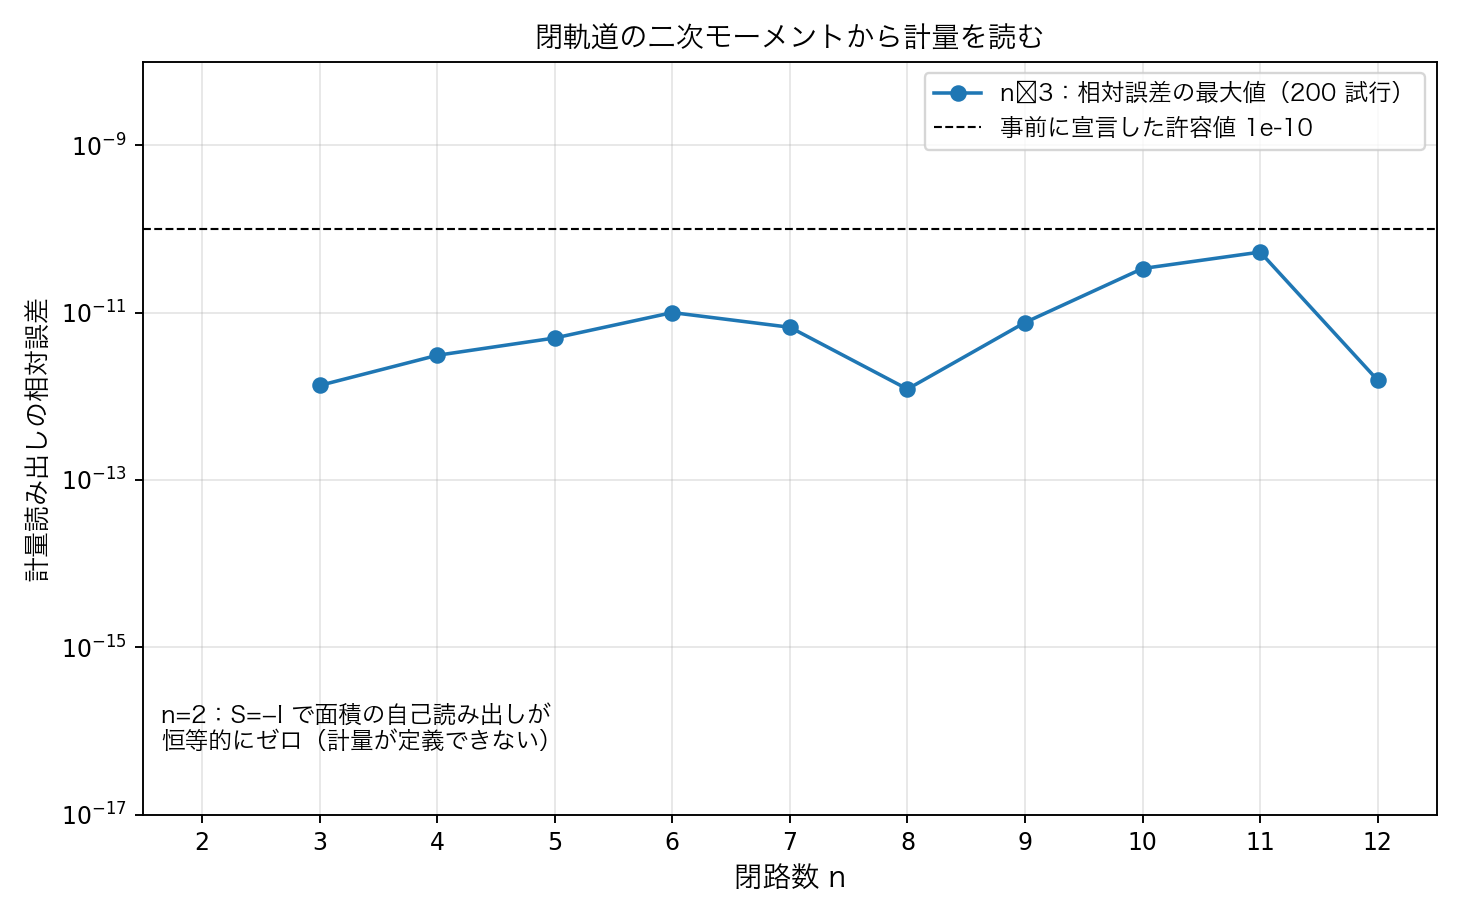
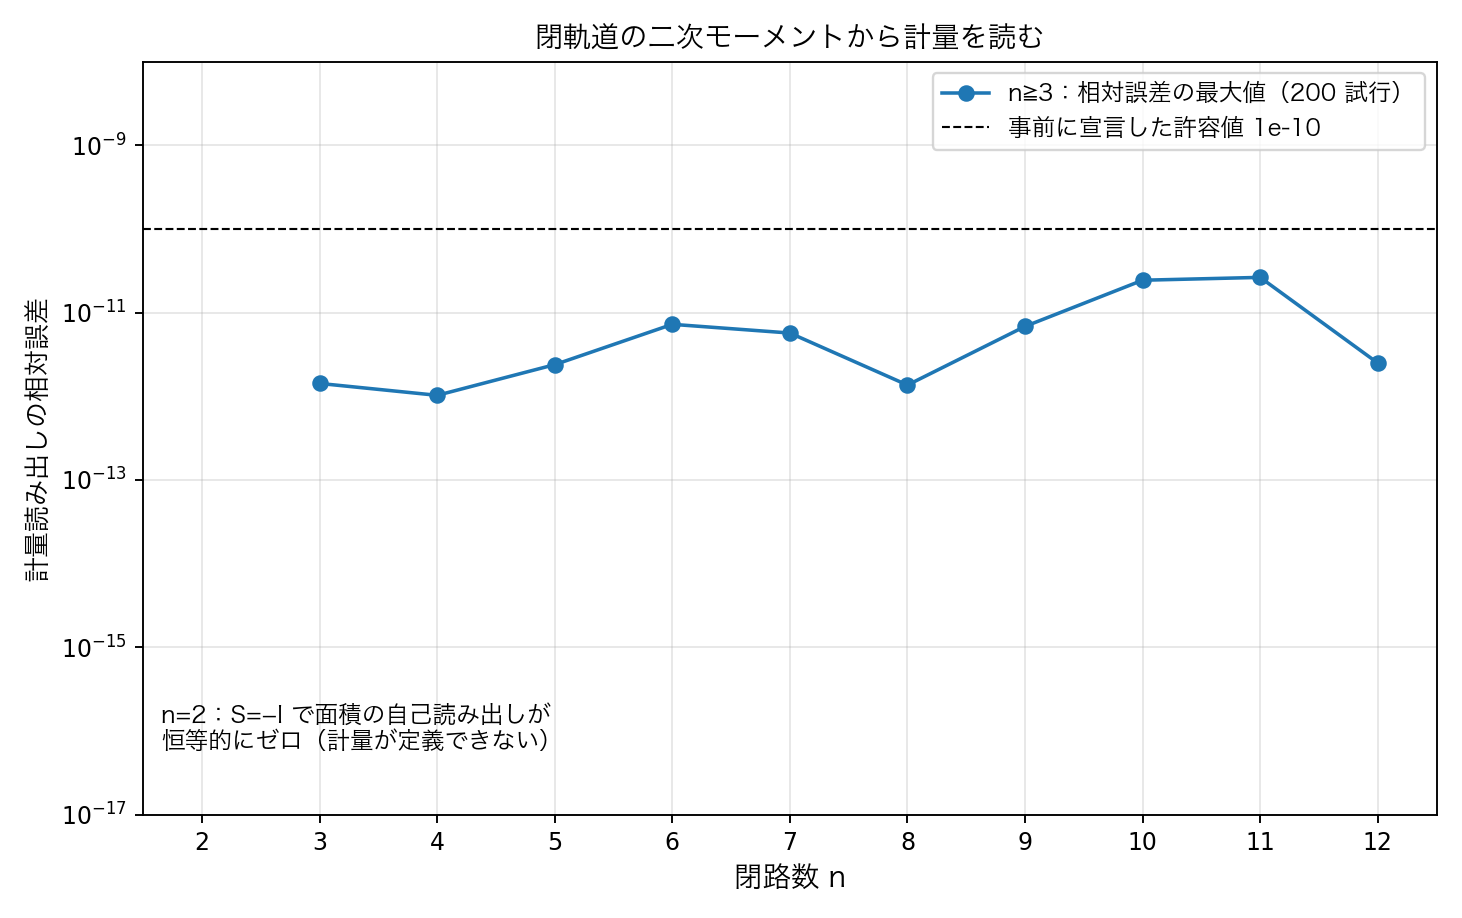
第一思考実験（area_readout版）fable5.1指示 [18]〜[22] 適用：T6の条件を非退化型（|τ|≠2）に統一、§7へ別環境再実行の記録を追加（macOS arm64/Python 3.9.6/NumPy 2.0.2/Accelerate、判定17項目一致・厳密/整数値完全一致・浮動小数は末尾桁のみ相違）、凡例の≥(U+2265)をJIS内の≧(U+2267)へ変更（スクリプト2箇所）、図3のSVG/PNGをフォルダ内JSON正本から再描画（SVG差分は凡例1行のみ・全図グリフ欠けゼロ点検済み・豆腐解消を目視確認）

diff --git a/次元の生成構造/基礎物理モデル研究プロジェクト設計_20260920/run_area_readout_experiments_v1.py b/次元の生成構造/基礎物理モデル研究プロジェクト設計_20260920/run_area_readout_experiments_v1.py
@@ -678,7 +678,7 @@ def svg_fig3(res5):
     a.line([1.5, 12.5], [1e-10, 1e-10], "#000", 1, "5 4")
     a.line(ns, mx, COLORS[0], 1.6)
     a.dots(ns, mx, COLORS[0], 3.5)
-    a.legend([("n≥3：相対誤差の最大値（200 試行）", COLORS[0], None), ("事前に宣言した許容値 1e-10", "#000", "5 4")], 500, 60, box_w=250)
+    a.legend([("n≧3：相対誤差の最大値（200 試行）", COLORS[0], None), ("事前に宣言した許容値 1e-10", "#000", "5 4")], 500, 60, box_w=250)
     s.text(a.X(1.7), a.Y(3e-16), "n=2：S=−I で面積の自己読み出しが", 11)
     s.text(a.X(1.7), a.Y(3e-16) + 15, "恒等的にゼロ（計量が定義できない）", 11)
     s.save(FIG_DIR / (FIG3 + ".svg"))
@@ -778,7 +778,7 @@ def make_fig3(res5):
     ns = sorted(int(k) for k in res5["per_n"].keys())
     mx = [res5["per_n"][n]["max_rel_err"] for n in ns]
     fig, ax = plt.subplots(figsize=(8.6, 5.4), dpi=170)
-    ax.semilogy(ns, mx, "o-", label=L("n≥3：相対誤差の最大値（200 試行）", "n>=3: max relative error (200 trials)"))
+    ax.semilogy(ns, mx, "o-", label=L("n≧3：相対誤差の最大値（200 試行）", "n>=3: max relative error (200 trials)"))
     ax.axhline(1e-10, color="k", ls="--", lw=0.9, label=L("事前に宣言した許容値 1e-10", "pre-declared tolerance 1e-10"))
     ax.set_xticks([2] + ns)
     ax.annotate(L("n=2：S=−I で面積の自己読み出しが\n恒等的にゼロ（計量が定義できない）",
